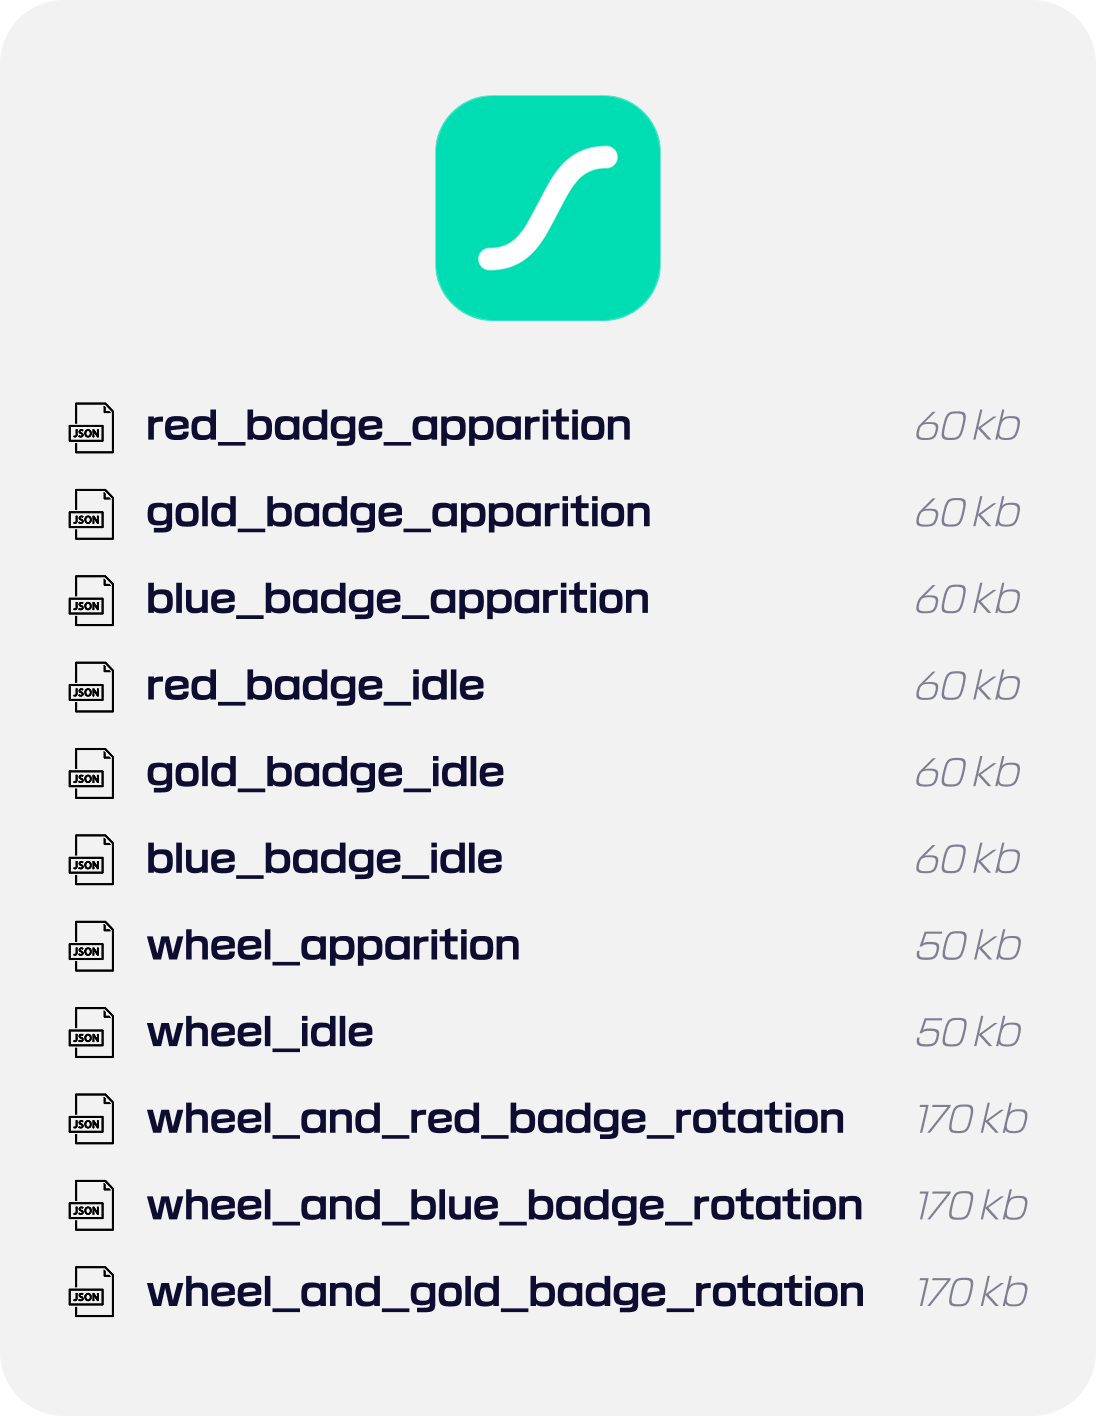
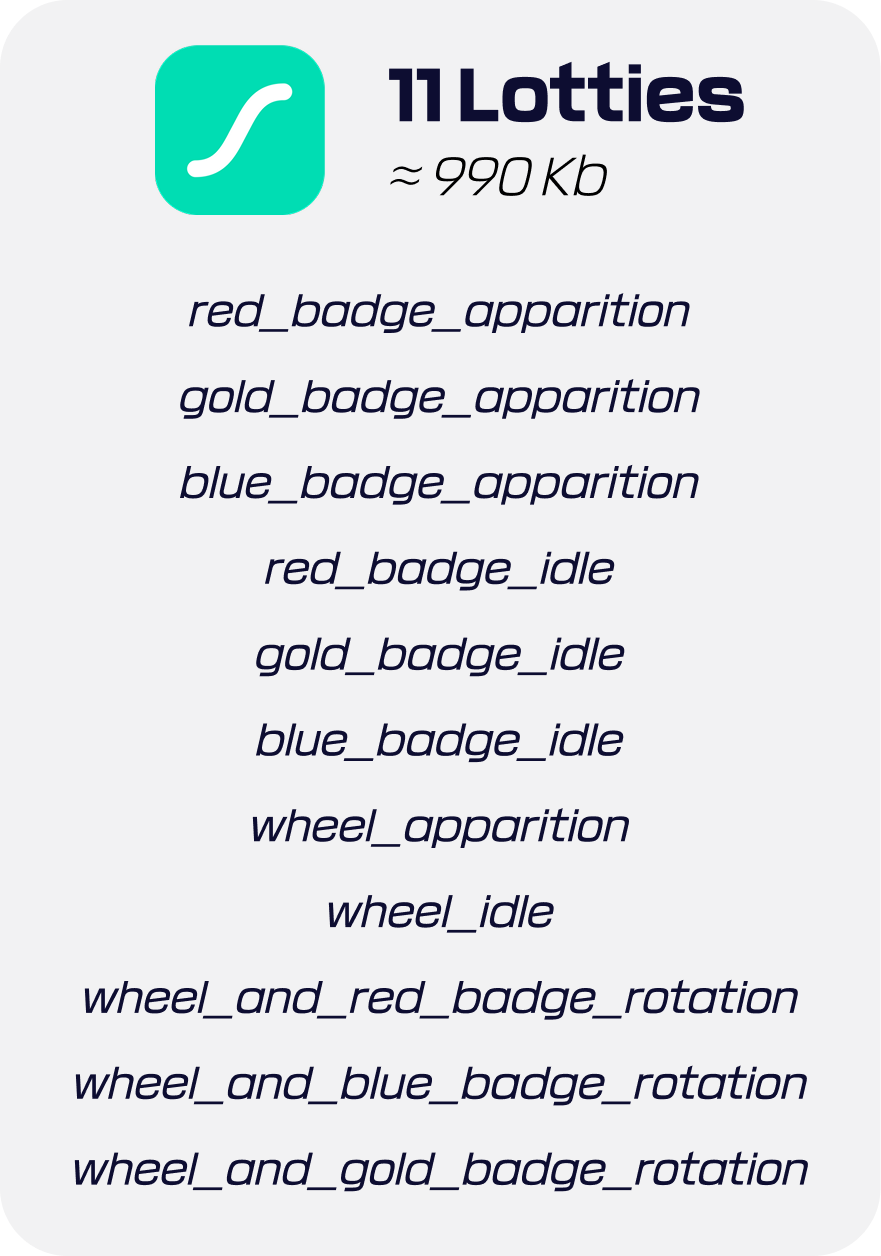
Last minute updates

diff --git a/lib/slides/rive_intro_slides.dart b/lib/slides/rive_intro_slides.dart
@@ -55,8 +55,9 @@ class WhatsRiveSlide extends FlutterDeckSlideWidget {
   }
 }
 
-/// "Rive vs Lottie" — the pile of Lottie JSON exports on the left, an arrow,
-/// and a single bound `.riv` (label + the live reward animation) on the right.
+/// "Rive vs Lottie" — three columns, chevron-separated: the game screen, the
+/// pile of 11 Lotties it takes, and the single bound `.riv` (logo + the live
+/// reward animation).
 class RiveVsLottieImageSlide extends FlutterDeckSlideWidget {
   RiveVsLottieImageSlide({super.key, this.pageNumber})
     : super(
@@ -77,49 +78,57 @@ class RiveVsLottieImageSlide extends FlutterDeckSlideWidget {
         child: Row(
           crossAxisAlignment: CrossAxisAlignment.center,
           children: [
-            // Left: the many Lottie JSON exports.
+            // 1 — the game screen.
+            Expanded(
+              child: Center(
+                child: Image.asset('assets/game_screen.png', fit: BoxFit.contain),
+              ),
+            ),
+            const _Chevron(),
+            // 2 — the 11 Lotties it takes.
             Expanded(
               child: Center(
                 child: Image.asset('assets/lottie_files.png', fit: BoxFit.contain),
               ),
             ),
-            // Long arrow left → right, spanning the gap between the two sides.
-            const SizedBox(
-              width: 150,
-              height: 48,
-              child: _LongArrow(color: BetclicBrand.red),
-            ),
-            // Right: the single .riv — label on top, the live animation below.
+            const _Chevron(),
+            // 3 — the single .riv: logo on top of the live reward animation.
             Expanded(
-              child: Column(
-                mainAxisAlignment: MainAxisAlignment.center,
-                children: [
-                  Image.asset('assets/rive_logo.png', height: 150),
-                  const SizedBox(height: 12),
-                  const Text(
-                    'ic_reward.riv',
-                    style: TextStyle(
-                      fontFamily: BetclicBrand.fontFamily,
-                      fontSize: 24,
-                      fontWeight: FontWeight.w800,
-                      color: BetclicBrand.ink,
+              child: Center(
+                child: Column(
+                  mainAxisSize: MainAxisSize.min,
+                  children: [
+                    Image.asset('assets/rive_logo.png', height: 120),
+                    const SizedBox(height: 10),
+                    const Text(
+                      'ic_reward.riv',
+                      style: TextStyle(
+                        fontFamily: BetclicBrand.fontFamily,
+                        fontSize: 22,
+                        fontWeight: FontWeight.w800,
+                        color: BetclicBrand.ink,
+                      ),
                     ),
-                  ),
-                  const SizedBox(height: 4),
-                  const Text(
-                    '42 kb',
-                    style: TextStyle(
-                      fontFamily: BetclicBrand.fontFamily,
-                      fontSize: 18,
-                      fontStyle: FontStyle.italic,
-                      color: BetclicBrand.muted,
+                    const SizedBox(height: 2),
+                    const Text(
+                      '42 kb',
+                      style: TextStyle(
+                        fontFamily: BetclicBrand.fontFamily,
+                        fontSize: 17,
+                        fontStyle: FontStyle.italic,
+                        color: BetclicBrand.muted,
+                      ),
                     ),
-                  ),
-                  const SizedBox(height: 20),
-                  const Flexible(
-                    child: _LoopingVideo(asset: 'assets/lottie_vs_rive.mp4'),
-                  ),
-                ],
+                    const SizedBox(height: 12),
+                    // Fixed size (no Flexible) so the logo + label + video stay
+                    // a tight group that Center keeps vertically centered.
+                    const SizedBox(
+                      width: 440,
+                      height: 318,
+                      child: _LoopingVideo(asset: 'assets/lottie_vs_rive.mp4'),
+                    ),
+                  ],
+                ),
               ),
             ),
           ],
@@ -129,46 +138,17 @@ class RiveVsLottieImageSlide extends FlutterDeckSlideWidget {
   }
 }
 
-/// A long horizontal arrow (line + head) that fills its given width.
-class _LongArrow extends StatelessWidget {
-  const _LongArrow({required this.color});
-
-  final Color color;
+/// The grey double-chevron used to separate the three columns.
+class _Chevron extends StatelessWidget {
+  const _Chevron();
 
   @override
   Widget build(BuildContext context) {
-    return CustomPaint(painter: _ArrowPainter(color), size: Size.infinite);
+    return Padding(
+      padding: const EdgeInsets.symmetric(horizontal: 16),
+      child: Image.asset('assets/arrow_chevron.png', width: 56),
+    );
   }
-}
-
-class _ArrowPainter extends CustomPainter {
-  const _ArrowPainter(this.color);
-
-  final Color color;
-
-  @override
-  void paint(Canvas canvas, Size size) {
-    final cy = size.height / 2;
-    const headLen = 16.0;
-    const headHalf = 10.0;
-    final paint = Paint()
-      ..color = color
-      ..strokeWidth = 4
-      ..strokeCap = StrokeCap.round
-      ..style = PaintingStyle.stroke;
-    // Shaft.
-    canvas.drawLine(Offset(0, cy), Offset(size.width - headLen, cy), paint);
-    // Arrowhead.
-    final head = Path()
-      ..moveTo(size.width, cy)
-      ..lineTo(size.width - headLen, cy - headHalf)
-      ..lineTo(size.width - headLen, cy + headHalf)
-      ..close();
-    canvas.drawPath(head, Paint()..color = color);
-  }
-
-  @override
-  bool shouldRepaint(_ArrowPainter oldDelegate) => oldDelegate.color != color;
 }
 
 /// A small looping, muted, auto-playing video used inline on a slide.

diff --git a/lib/slides/betclic/betclic_cover_slides.dart b/lib/slides/betclic/betclic_cover_slides.dart
@@ -77,8 +77,108 @@ class BetclicCoverSlide extends FlutterDeckSlideWidget {
                 ),
               ),
             ),
+            const Positioned(
+              left: 48,
+              bottom: 40,
+              child: Column(
+                mainAxisSize: MainAxisSize.min,
+                crossAxisAlignment: CrossAxisAlignment.start,
+                children: [
+                  _SpeakerCard(
+                    asset: 'assets/avatar_thomas.png',
+                    name: 'Thomas Guerin',
+                    title: 'Staff Software Engineer',
+                    imageAlignment: Alignment(0, -0.6),
+                  ),
+                  SizedBox(height: 12),
+                  _SpeakerCard(
+                    asset: 'assets/avatar_nicolas.jpg',
+                    name: 'Nicolas Faveraux',
+                    title: 'Motion Designer',
+                    imageAlignment: Alignment(0, -0.2),
+                  ),
+                ],
+              ),
+            ),
           ],
         ),
+      ),
+    );
+  }
+}
+
+/// A small white card: circular avatar + name (line 1) and role (line 2).
+class _SpeakerCard extends StatelessWidget {
+  const _SpeakerCard({
+    required this.asset,
+    required this.name,
+    required this.title,
+    this.imageAlignment = Alignment.center,
+  });
+
+  final String asset;
+  final String name;
+  final String title;
+  final Alignment imageAlignment;
+
+  @override
+  Widget build(BuildContext context) {
+    return Container(
+      width: 360,
+      padding: const EdgeInsets.fromLTRB(16, 14, 22, 14),
+      decoration: BoxDecoration(
+        color: Colors.white,
+        borderRadius: BorderRadius.circular(18),
+        boxShadow: [
+          BoxShadow(
+            color: Colors.black.withValues(alpha: 0.25),
+            blurRadius: 18,
+            offset: const Offset(0, 6),
+          ),
+        ],
+      ),
+      child: Row(
+        children: [
+          Container(
+            width: 70,
+            height: 70,
+            decoration: BoxDecoration(
+              shape: BoxShape.circle,
+              image: DecorationImage(
+                image: AssetImage(asset),
+                fit: BoxFit.cover,
+                alignment: imageAlignment,
+              ),
+            ),
+          ),
+          const SizedBox(width: 16),
+          Expanded(
+            child: Column(
+              mainAxisSize: MainAxisSize.min,
+              crossAxisAlignment: CrossAxisAlignment.start,
+              children: [
+                Text(
+                  name,
+                  style: const TextStyle(
+                    fontFamily: BetclicBrand.fontFamily,
+                    fontSize: 21,
+                    fontWeight: FontWeight.w800,
+                    color: BetclicBrand.ink,
+                  ),
+                ),
+                const SizedBox(height: 3),
+                Text(
+                  title,
+                  style: const TextStyle(
+                    fontFamily: BetclicBrand.fontFamily,
+                    fontSize: 16,
+                    color: BetclicBrand.muted,
+                  ),
+                ),
+              ],
+            ),
+          ),
+        ],
       ),
     );
   }

diff --git a/lib/main.dart b/lib/main.dart
@@ -45,34 +45,40 @@ class MeetupDeck extends StatelessWidget {
         ),
         WhatsRiveSlide(pageNumber: 2),
         RiveVsLottieImageSlide(pageNumber: 3),
-        RiveVsFlutterAnimateSlide(pageNumber: 4),
+        BetclicVideoSlide(
+          route: '/rive-in-action',
+          title: 'Rive in action',
+          asset: 'assets/montage_rive.mp4',
+          pageNumber: 4,
+        ),
+        RiveVsFlutterAnimateSlide(pageNumber: 5),
         const BuildIntroSlide(),
         const MinigameSlide(),
         BetclicVideoSlide(
           route: '/rive-step-1-video',
           title: 'Design',
           asset: 'assets/record_step_1.mp4',
-          pageNumber: 5,
+          pageNumber: 6,
         ),
-        RiveStep1Slide(pageNumber: 6),
+        RiveStep1Slide(pageNumber: 7),
         BetclicVideoSlide(
           route: '/rive-step-2-video',
           title: 'Animation & Data Binding',
           asset: 'assets/record_step_2.mp4',
-          pageNumber: 7,
+          pageNumber: 8,
         ),
-        RiveStep2Slide(pageNumber: 8),
+        RiveStep2Slide(pageNumber: 9),
         BetclicVideoSlide(
           route: '/rive-step-3-video',
           title: 'Customization',
           asset: 'assets/record_step_3.mp4',
-          pageNumber: 9,
+          pageNumber: 10,
         ),
-        RiveStep3Slide(pageNumber: 10),
+        RiveStep3Slide(pageNumber: 11),
         BetclicStatementSlide(
           route: '/statement',
           title: 'Key takeaway',
-          pageNumber: 11,
+          pageNumber: 12,
           spans: const [
             BetclicSpan.plain('Rive lets design and engineering share '),
             BetclicSpan.red('one source of truth'),
@@ -81,9 +87,9 @@ class MeetupDeck extends StatelessWidget {
             BetclicSpan.plain('.'),
           ],
         ),
-        PanelMemorySlide(pageNumber: 12),
-        AssetStrategySlide(pageNumber: 13),
-        GeneratorSlide(pageNumber: 14),
+        PanelMemorySlide(pageNumber: 13),
+        AssetStrategySlide(pageNumber: 14),
+        GeneratorSlide(pageNumber: 15),
         const BetclicQaSlide(),
         const BetclicThankYouSlide(
           subtitle: 'Now find the A of hearts →',

diff --git a/lib/slides/advanced_slides.dart b/lib/slides/advanced_slides.dart
@@ -83,7 +83,7 @@ const List<_Example> _examples = [
   (
     title: 'Set the card value & suit',
     raw:
-        "// Strings everywhere — a typo is a runtime crash.\n"
+        "// Strings everywhere — a typo and your animation is broken.\n"
         "final front = vmi.viewModel('propertyOfVmFrontCard');\n"
         "front?.string('valueCard')?.value = 'A';\n"
         "front?.enumerator('cardSymbol')?.value = 'heart';",